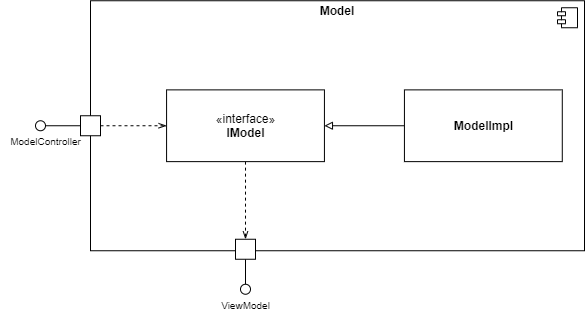
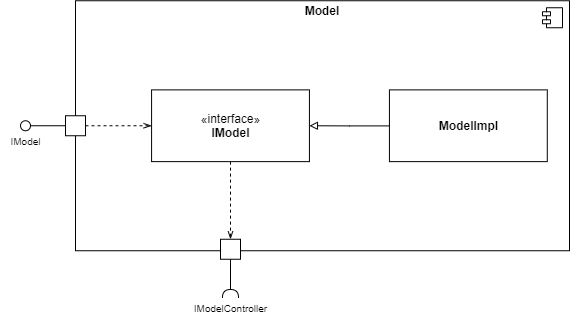
Model Diagram überarbeitet + Methodenbeschreibungen hinzugefuegt

diff --git a/Doku/Dokumentation_Tronspiel.md b/Doku/Dokumentation_Tronspiel.md
@@ -129,6 +129,8 @@ tbd
 |cancelWait |Diese Methode bricht die Spielesuche/ das Warten auf weitere Spieler ab|
 |startGame  |Diese Methode initialisiert und startet das eigentliche Spiel, sobald alle Spieler beigetreten sind.|
 |movePlayer |Mit dieser Methode wird die Bewegung im Spiel modelliert. Tasteneingaben vom Spieler bestimmen seine Richtung. Hier wird außerdem mit internen Methoden weiter überprüft, ob es Kollisionen gab und demnach gehandelt.|
+|checkCollision| Diese Methode überprüft, ob es eine Kollision zwischen einem Spieler und einem anderen Spieler, Spur oder Wand gegeben hat.|
+|clearPlayer|Wenn ein Spieler kollidiert ist, soll er vom Spielfeld verschwinden.|
 
 ### Whitebox \<\_Baustein x.2\_\> {#_whitebox_baustein_x_2}
 
